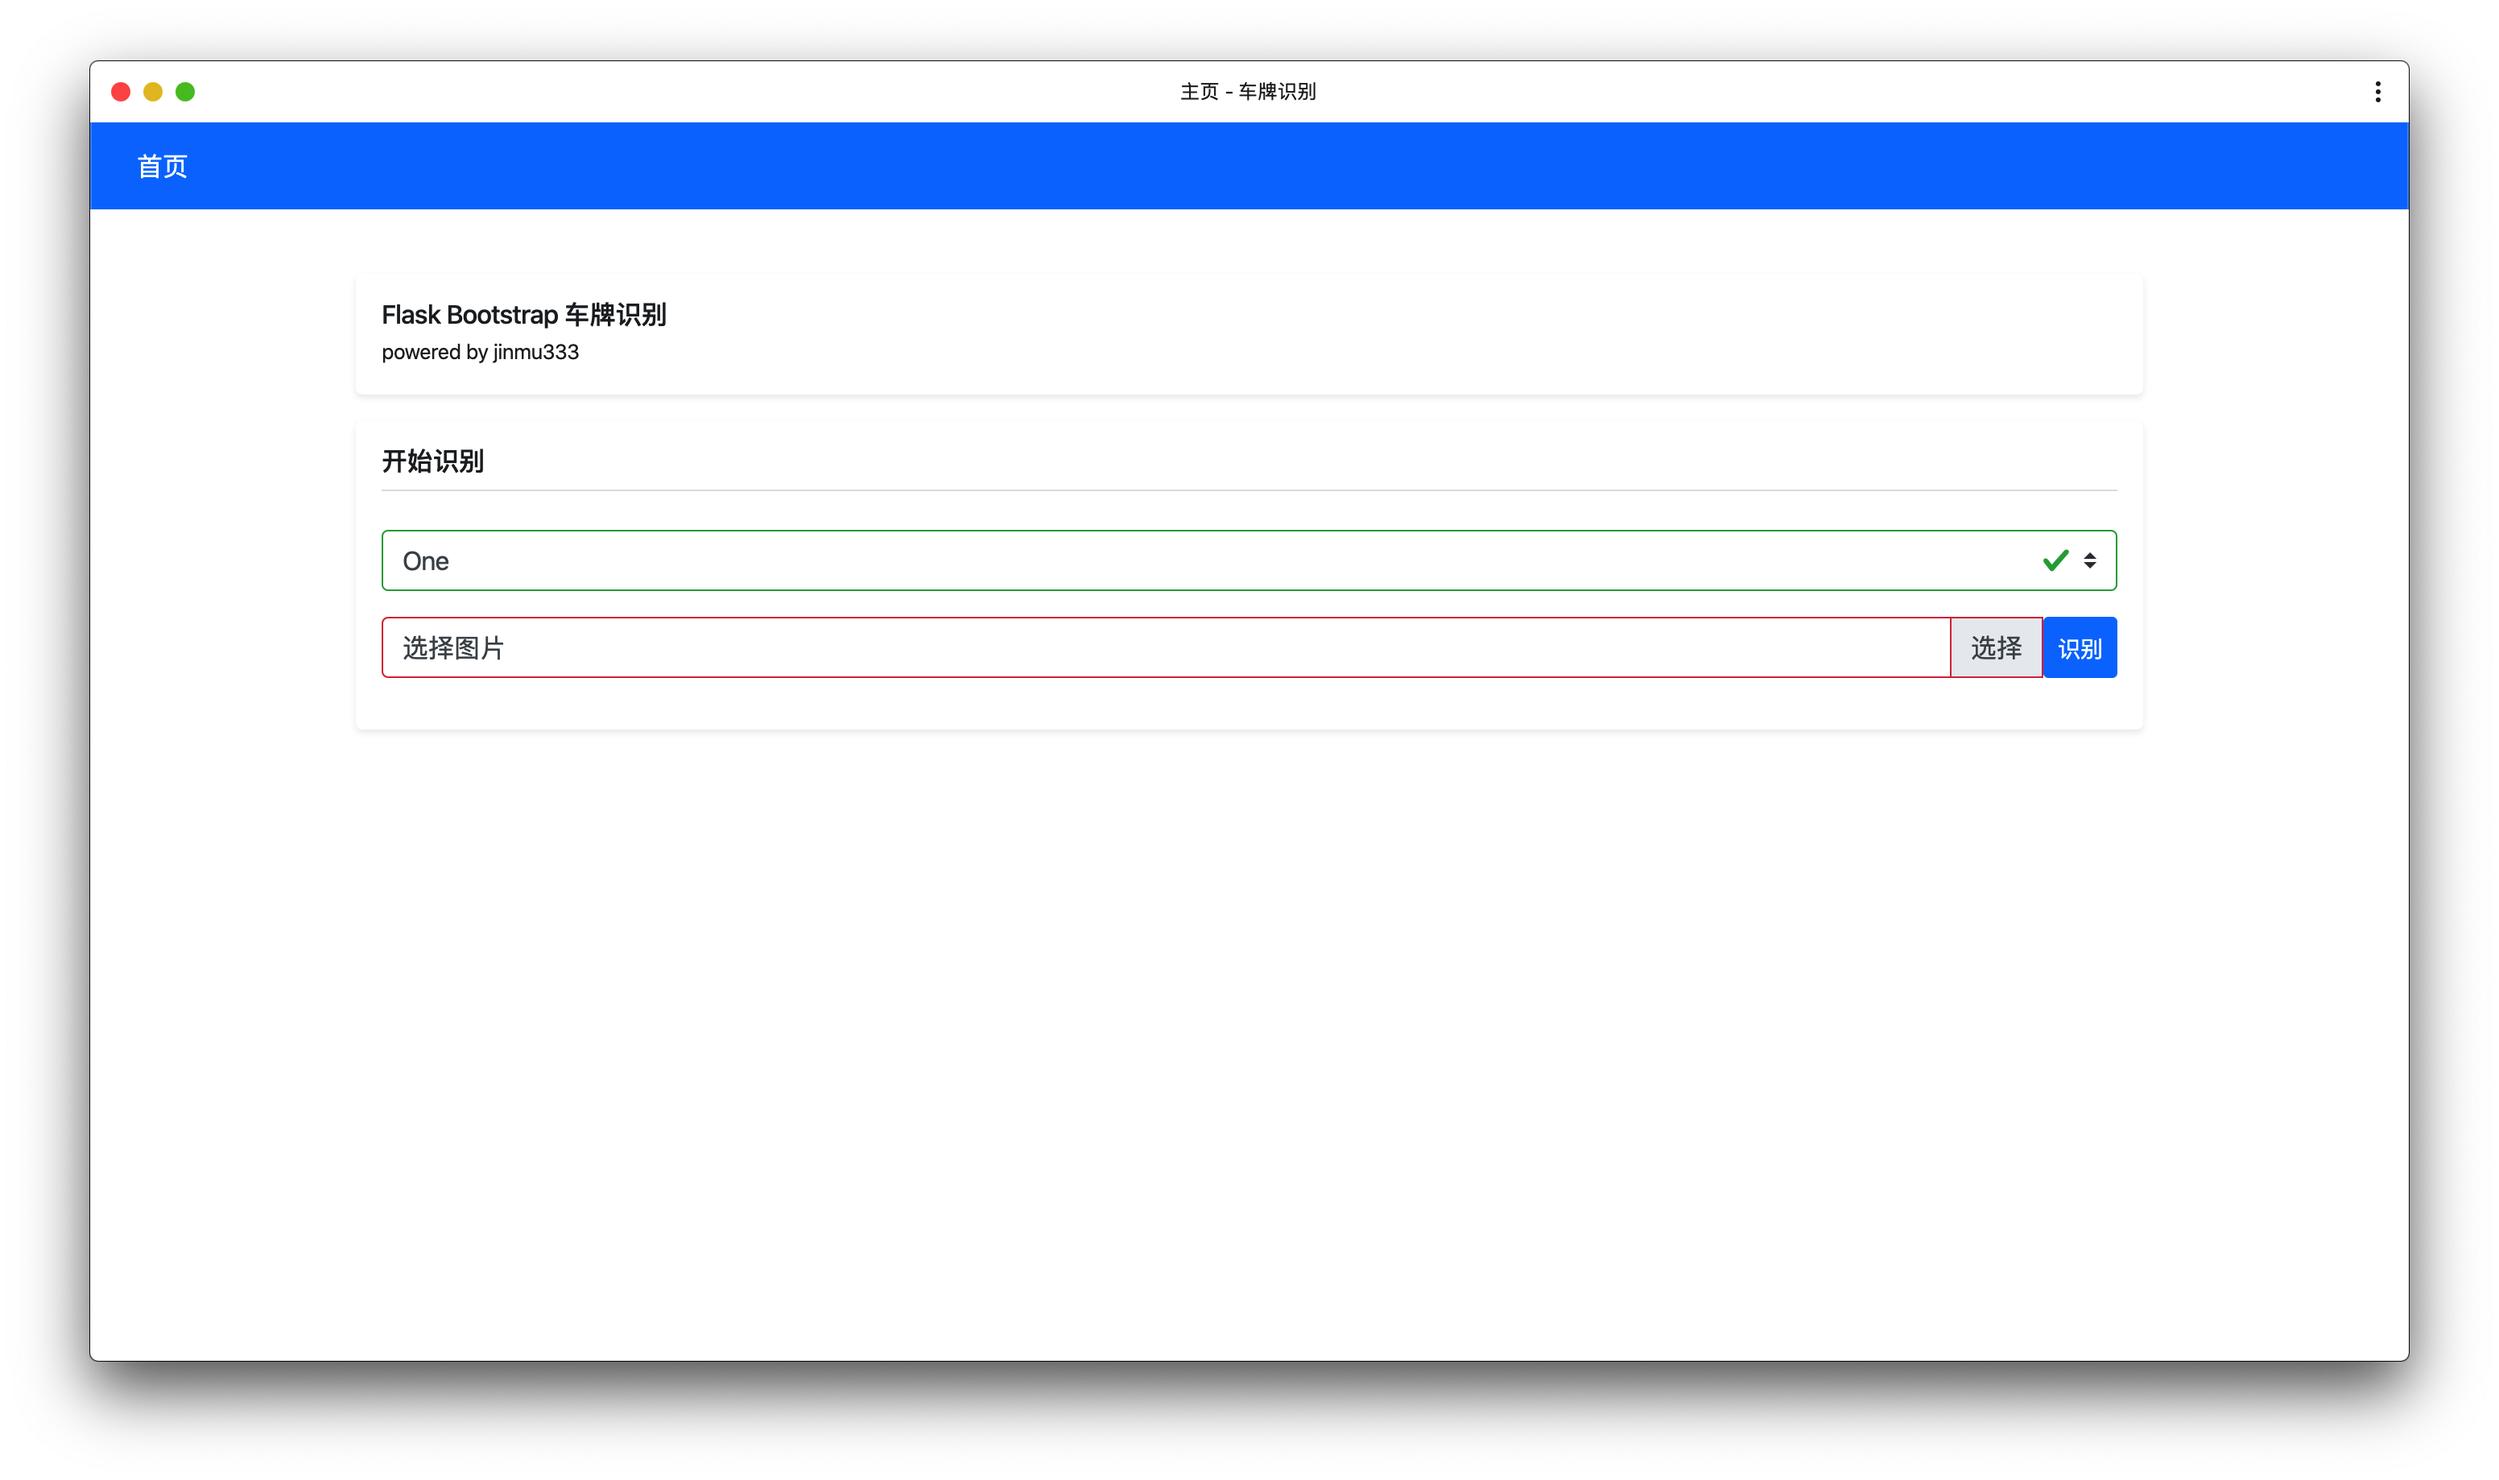
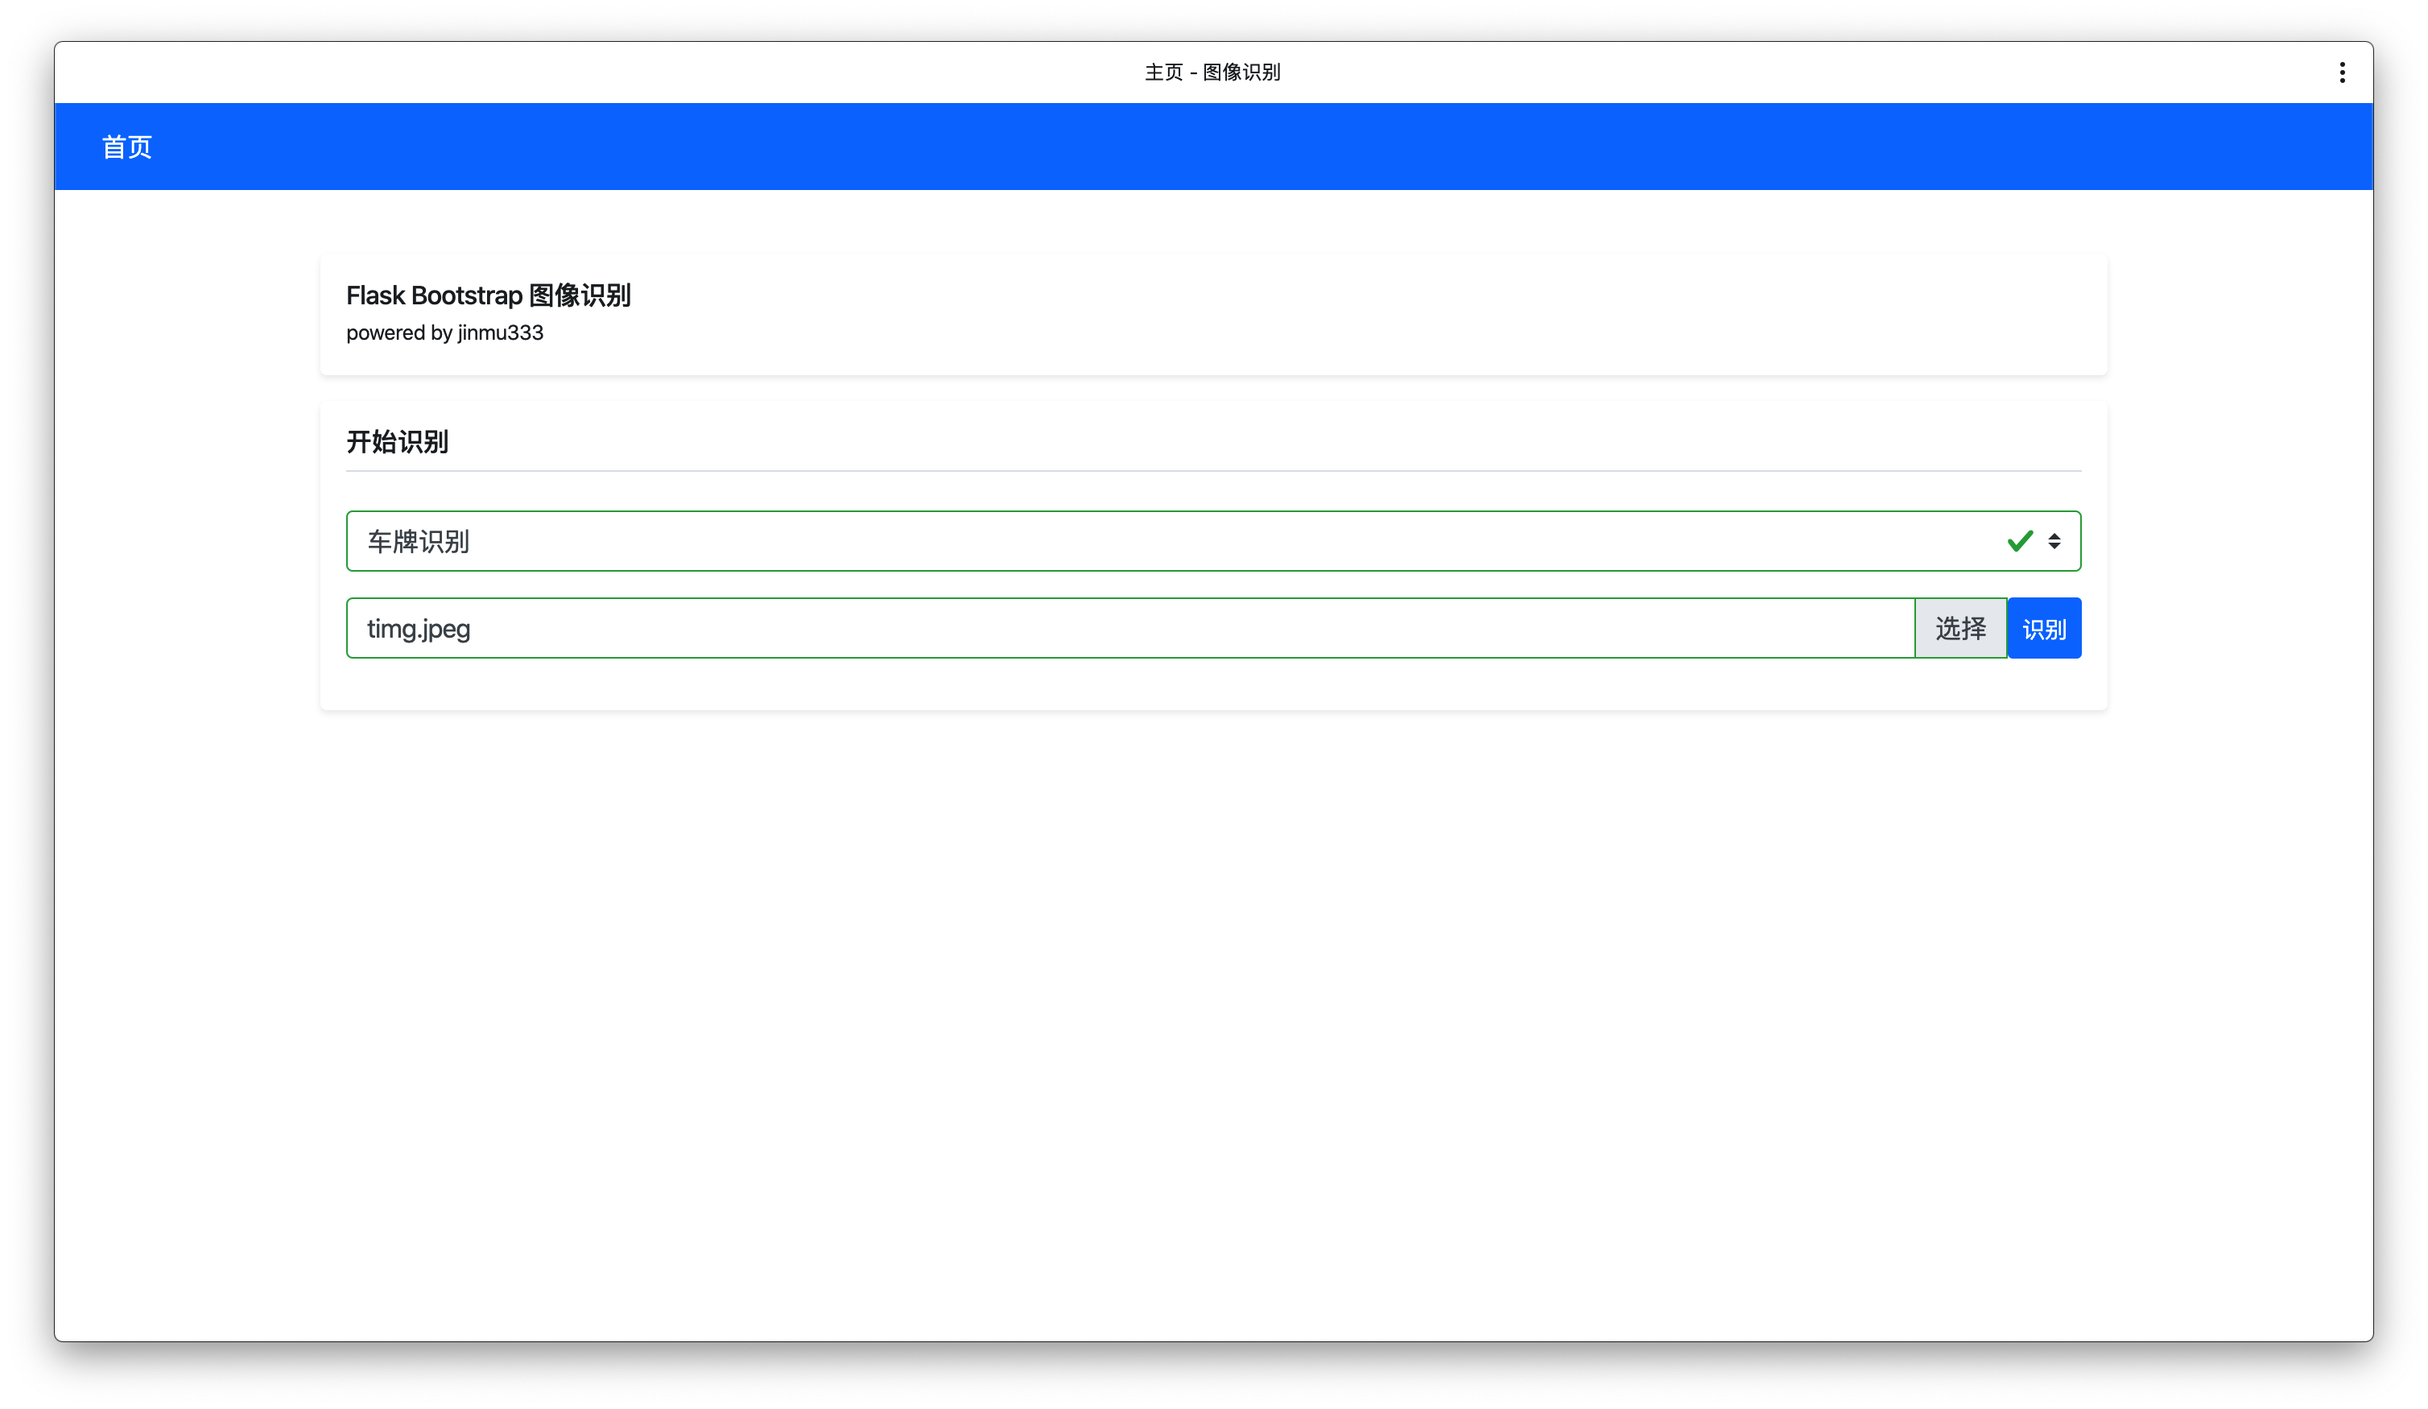
提示信息修改 Update README

diff --git a/flask_img/main.py b/flask_img/main.py
@@ -25,6 +25,11 @@ bp = Blueprint('main', __name__)
 ALLOWED_EXTENSIONS = {'png', 'jpg', 'jpeg'}
 IMAGE_FOLDER = bp.root_path + '/../images/'
 TMP_FOLDER = bp.root_path + '/tmp/'
+CARD_COLOR = {
+    "blue": "蓝色",
+    "yello": "黄色",
+    "green": "绿色"
+}
 
 try:
     shutil.rmtree(IMAGE_FOLDER)
@@ -47,22 +52,19 @@ def allowed_file(filename):
 def index():
     if request.method == 'POST':
         if 'car_image' not in request.files:
-            flash('No car image')
+            flash('请选择识别文件')
             return redirect(request.url)
         image = request.files['car_image']
         if image.filename == '':
-            flash('No selected file')
+            flash('请选择识别文件')
             return redirect(request.url)
         if 'recon_option' not in request.form:
-            flash('No recon option')
+            flash('请选择识别类型')
             return redirect(request.url)
         recon_option = request.form['recon_option']
         image = request.files['car_image']
-        if image.filename == '':
-            flash('No selected file')
-            return redirect(request.url)
         if not image or not allowed_file(image.filename):
-            flash('No selected file')
+            flash('文件不存在或后缀不合法')
             return redirect(request.url)
         image_uuid = uuid.uuid4().hex
         filename = ''.join([image_uuid, '.', image.filename.rsplit('.', 1)[1]])
@@ -101,25 +103,17 @@ def car_pic(filename):
     first_img, oldimg = predictor.img_first_pre(img_bgr)
     r_c, roi_c, color_c = predictor.img_color_contours(first_img, oldimg)
     r_color, roi_color, color_color = predictor.img_only_color(oldimg, oldimg, first_img)
-    if not color_color:
-        color_color = color_c
-    if not color_c:
-        color_c = color_color
     if roi_c is None and roi_color is None:
         raise ValueError('没有找到车牌')
-    if roi_c is not None:
-        roi_c = cv2.cv2.cvtColor(roi_c, cv2.cv2.COLOR_BGR2RGB)
-    if roi_color is not None:
-        roi_color = cv2.cv2.cvtColor(roi_color, cv2.cv2.COLOR_BGR2RGB)
-    cv2.cv2.imwrite(TMP_FOLDER+"img_color_contours.png", roi_c)
-    cv2.cv2.imwrite(TMP_FOLDER+"img_only_color.png", roi_color)
-    print(color_c, r_c, "|", color_color, r_color)
+    cv2.cv2.imwrite(TMP_FOLDER+"img_color_contours_"+filename, roi_c)
+    cv2.cv2.imwrite(TMP_FOLDER+"img_only_color_"+filename, roi_color)
+    # print(color_c, r_c, "|", color_color, r_color)
     return {
         'car': True,
-        'img_color_contours': '颜色形状识别结果: ' + color_c + ' ' + r_c,
-        'img_color_contours_path': '/tmp/img_color_contours.png',
-        'img_only_color': '颜色识别结果: ' + color_c + ' ' + r_c,
-        'img_only_color_path': '/tmp/img_only_color.png',
+        'img_color_contours': '颜色形状识别结果: ' + CARD_COLOR.get(color_c) + ' ' + r_c,
+        'img_color_contours_path': '/tmp/img_color_contours_'+filename,
+        'img_only_color': '颜色识别结果: ' + CARD_COLOR.get(color_color) + ' ' + r_color,
+        'img_only_color_path': '/tmp/img_only_color_'+filename,
         'filepath': '/image/'+filename,
     }
 

diff --git a/README.md b/README.md
@@ -5,15 +5,17 @@
 
 ## 简介
 
+* Flask Bootstrap 网页实现
+* 基于Opencv的车牌识别系统 二维码条形码识别系统
+
+## [原理简介](doc/doc.md)
+
 ![demo](README/demo.png)
 
 ![demo2](README/demo2.png)
 
-* Flask Bootstrap 网页实现
-* 毕业设计基于Opencv的车牌识别系统 二维码条形码识别系统
-* 安装 python3
+![demo3](README/demo3.png)
 
-## [原理简介](doc/doc.md)
 
 ## docker 依赖安装
 
